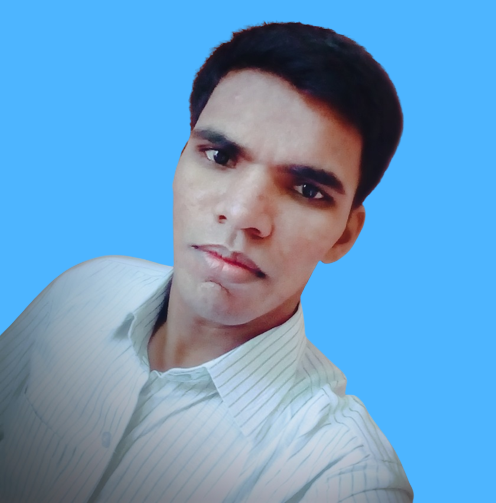
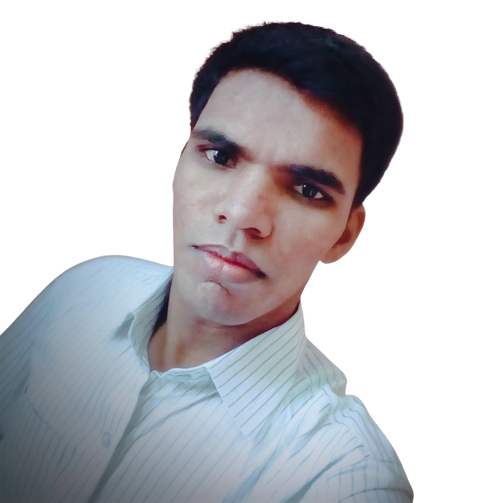
Color as CSS Variables

diff --git a/src/index.css b/src/index.css
@@ -20,17 +20,29 @@
 
   /* Extra Colors */
   --color-yellow: #ffb300;
+  --color-yellow-gradient: linear-gradient(to bottom right, #ffeb3b 0%, #fbc02d 100%);
   --color-orange: #f68401;
+  --color-orange-gradient: linear-gradient(to bottom right, #ffc107 0%, #f57c00 100%);
   --color-pink: #dc306f;
+  --color-pink-gradient: linear-gradient(to bottom right, #f48fb1 0%, #d81b60 100%);
   --color-red: #c62828;
+  --color-red-gradient: linear-gradient(to bottom right, #f4511e 0%, #b71c1c 100%);
   --color-purple: #7127a8;
+  --color-purple-gradient: linear-gradient(to bottom right, #ab47bc 0%, #4527a0 100%);
   --color-teal: #34a297;
+  --color-teal-gradient: linear-gradient(to bottom right, #4db6ac 0%, #00796b 100%);
   --color-blue: #259af3;
+  --color-blue-gradient: linear-gradient(to bottom right, #4fc3f7 0%, #2196f3 100%);
   --color-blue-dark: #1c68c5;
+  --color-blue-dark-gradient: linear-gradient(to bottom right, #1976d2 0%, #283593 100%);
   --color-green: #7cb342;
+  --color-green-gradient: linear-gradient(to bottom right, #cddc39 0%, #8bc34a 100%);
   --color-green-dark: #00944a;
+  --color-green-dark-gradient: linear-gradient(to bottom right, #4caf50 0%, #1b5e20 100%);
   --color-silver: #9e9e9e;
+  --color-silver-gradient: linear-gradient(to bottom right, #e0e0e0 0%, #bdbdbd 100%);
   --color-gold: #b7892b;
+  --color-gold-gradient: linear-gradient(to bottom right, #e6ce6a 0%, #b7892b 100%);
 
   --transition: all 400ms ease;
 

diff --git a/src/Components/About/About.css b/src/Components/About/About.css
@@ -15,7 +15,11 @@
 }
 
 .about__personal_image {
+  background: linear-gradient(45deg, transparent, var(--color-primary), transparent);
   border-radius: 2rem;
+  width: inherit;
+  height: inherit;
+  padding: 1.5rem;
   overflow: hidden;
   transform: rotate(10deg);
   transition: var(--transition);
